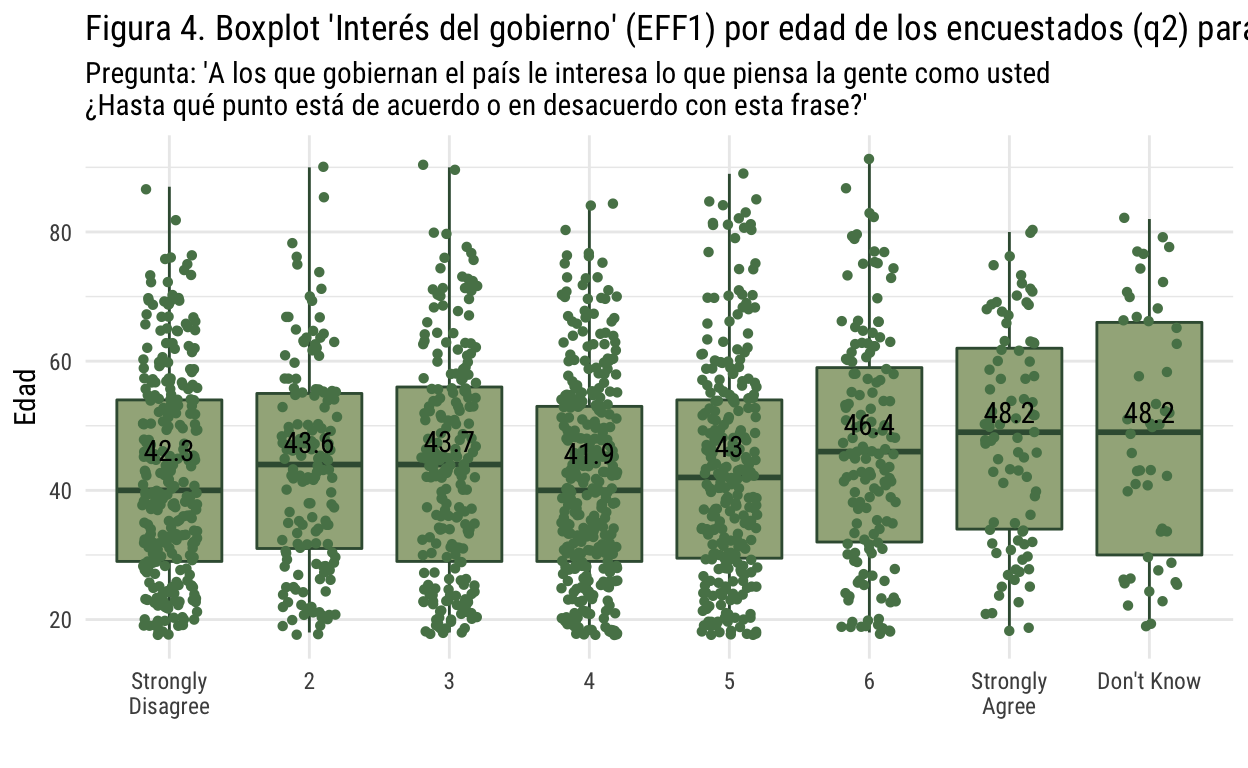
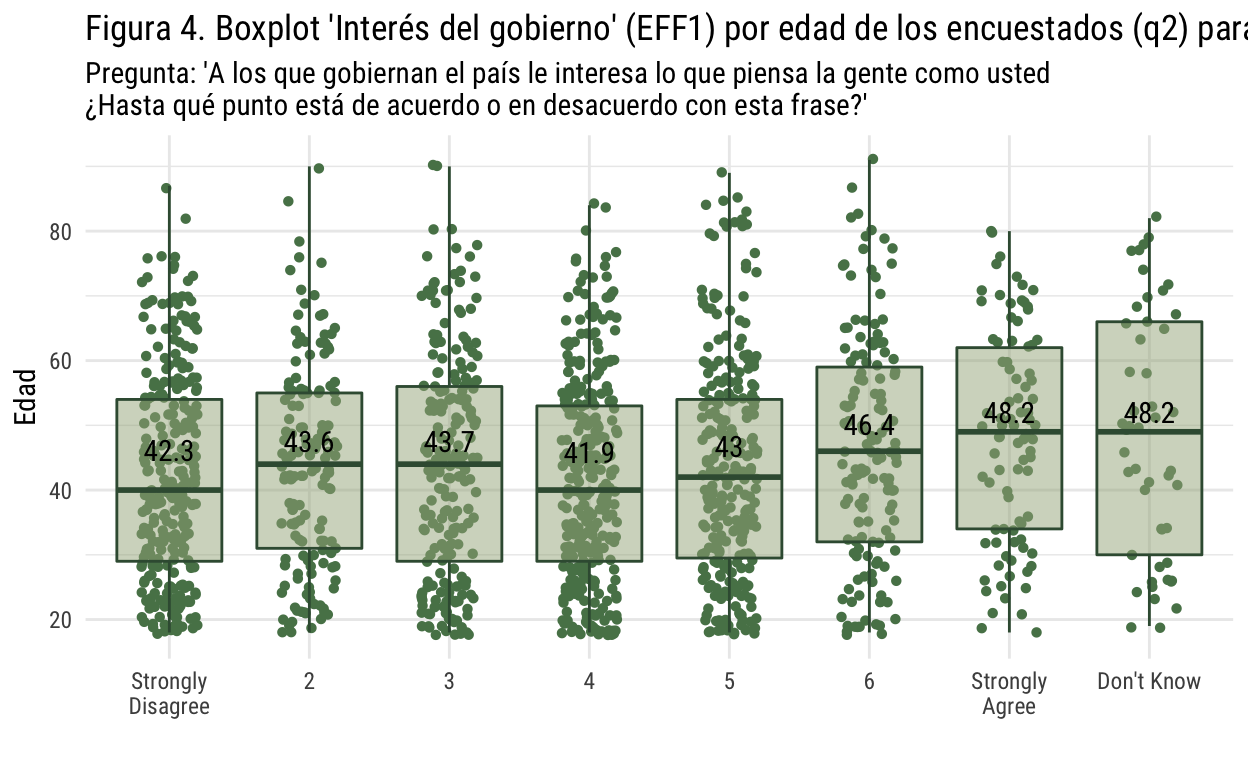
valor-p

diff --git a/_posts/2022-08-22-test-de-hiptesis/test-de-hiptesis.html b/_posts/2022-08-22-test-de-hiptesis/test-de-hiptesis.html
@@ -1547,7 +1547,8 @@ Considerando el tipo de variable que tenemos en nuestro análisis, es el tipo de
 <p>Y cargaremos la base de datos con variables ya seleccionadas:</p>
 <div class="layout-chunk" data-layout="l-body">
 <div class="sourceCode">
-<pre class="sourceCode r"><code class="sourceCode r"><span><span class='va'>df_lapop_chile</span> <span class='op'>&lt;-</span> <span class='fu'><a href='https://rdrr.io/r/base/readRDS.html'>readRDS</a></span><span class='op'>(</span><span class='st'>"output/lapop_chile_220824.rds"</span><span class='op'>)</span></span></code></pre>
+<pre class="sourceCode r"><code class="sourceCode r"><span><span class='va'>df_lapop_chile</span> <span class='op'>&lt;-</span> <span class='fu'><a href='https://rdrr.io/r/base/readRDS.html'>readRDS</a></span><span class='op'>(</span><span class='st'>"output/lapop_chile_220824.rds"</span><span class='op'>)</span></span>
+<span><span class='va'>df_lapop_chile</span> <span class='op'>&lt;-</span> <span class='fu'><a href='https://haven.tidyverse.org/reference/read_dta.html'>read_dta</a></span><span class='op'>(</span><span class='st'>"output/lapop_chile_220824.dta"</span><span class='op'>)</span></span></code></pre>
 </div>
 </div>
 <p>Entonces, nuestra base de datos contiene las siguientes variables:</p>
@@ -2438,9 +2439,11 @@ Q1
 <p>Los <em>histogramas</em> son los gráficos que se usan normalmente para graficar variables continuas porque muestran la distribución de los valores. Esto nos permite ver la distribución de las edades de las personas encuestadas en el Barómetro de las Américas desde el 2004 al 2008.</p>
 <div class="layout-chunk" data-layout="l-body">
 <div class="sourceCode">
-<pre class="sourceCode r"><code class="sourceCode r"><span><span class='va'>df_lapop_chile</span> <span class='op'><a href='https://magrittr.tidyverse.org/reference/pipe.html'>%&gt;%</a></span> </span>
+<pre class="sourceCode r"><code class="sourceCode r"><span><span class='va'>histograma</span> <span class='op'>&lt;-</span> <span class='va'>df_lapop_chile</span> <span class='op'><a href='https://magrittr.tidyverse.org/reference/pipe.html'>%&gt;%</a></span> </span>
 <span>  <span class='fu'><a href='https://ggplot2.tidyverse.org/reference/ggplot.html'>ggplot</a></span><span class='op'>(</span><span class='fu'><a href='https://ggplot2.tidyverse.org/reference/aes.html'>aes</a></span><span class='op'>(</span>x <span class='op'>=</span> <span class='va'>q2</span><span class='op'>)</span><span class='op'>)</span> <span class='op'>+</span></span>
-<span>  <span class='fu'><a href='https://ggplot2.tidyverse.org/reference/geom_histogram.html'>geom_histogram</a></span><span class='op'>(</span><span class='op'>)</span></span></code></pre>
+<span>  <span class='fu'><a href='https://ggplot2.tidyverse.org/reference/geom_histogram.html'>geom_histogram</a></span><span class='op'>(</span><span class='op'>)</span></span>
+<span></span>
+<span><span class='va'>histograma</span></span></code></pre>
 </div>
 <p><img src="test-de-hiptesis_files/figure-html5/unnamed-chunk-4-1.png" width="624" /></p>
 </div>
@@ -2476,7 +2479,7 @@ Q1
 <span>  <span class='fu'><a href='https://ggplot2.tidyverse.org/reference/geom_density.html'>geom_density</a></span><span class='op'>(</span><span class='fu'><a href='https://ggplot2.tidyverse.org/reference/aes.html'>aes</a></span><span class='op'>(</span>y <span class='op'>=</span> <span class='va'>..count..</span><span class='op'>)</span>, color <span class='op'>=</span> <span class='st'>"#ff006e"</span><span class='op'>)</span> <span class='op'>+</span> <span class='co'># Gráfico de densidad</span></span>
 <span>  <span class='fu'><a href='https://ggplot2.tidyverse.org/reference/scale_continuous.html'>scale_x_continuous</a></span><span class='op'>(</span>breaks <span class='op'>=</span> <span class='fu'><a href='https://rdrr.io/r/base/seq.html'>seq</a></span><span class='op'>(</span><span class='fl'>0</span>,<span class='fl'>100</span>, by <span class='op'>=</span> <span class='fl'>10</span><span class='op'>)</span><span class='op'>)</span> <span class='op'>+</span></span>
 <span>  <span class='fu'><a href='https://ggplot2.tidyverse.org/reference/labs.html'>labs</a></span><span class='op'>(</span>title <span class='op'>=</span> <span class='st'>"Figura 2. Histograma de las edades de los encuestados en el\nBarómetro de las Américas, ola 2006 y 2008."</span>, x <span class='op'>=</span> <span class='st'>"Edad"</span>, y <span class='op'>=</span> <span class='st'>"Frecuencia"</span><span class='op'>)</span> <span class='op'>+</span> <span class='co'># Títulos</span></span>
-<span>  <span class='fu'><a href='https://ggplot2.tidyverse.org/reference/facet_grid.html'>facet_grid</a></span><span class='op'>(</span>rows <span class='op'>=</span> <span class='fu'><a href='https://ggplot2.tidyverse.org/reference/vars.html'>vars</a></span><span class='op'>(</span><span class='va'>year</span><span class='op'>)</span><span class='op'>)</span> <span class='op'>+</span></span>
+<span>  <span class='fu'><a href='https://ggplot2.tidyverse.org/reference/facet_grid.html'>facet_grid</a></span><span class='op'>(</span>cols <span class='op'>=</span> <span class='fu'><a href='https://ggplot2.tidyverse.org/reference/vars.html'>vars</a></span><span class='op'>(</span><span class='va'>year</span><span class='op'>)</span><span class='op'>)</span> <span class='op'>+</span></span>
 <span>  <span class='fu'><a href='https://ggplot2.tidyverse.org/reference/ggtheme.html'>theme_minimal</a></span><span class='op'>(</span>base_family <span class='op'>=</span> <span class='st'>"Roboto Condensed"</span><span class='op'>)</span></span></code></pre>
 </div>
 <p><img src="test-de-hiptesis_files/figure-html5/unnamed-chunk-7-1.png" width="624" /></p>
@@ -2543,8 +2546,8 @@ Value |             Label |   N | Raw % | Valid % | Cum. %
 <pre class="sourceCode r"><code class="sourceCode r"><span><span class='va'>df_lapop_chile</span> <span class='op'><a href='https://magrittr.tidyverse.org/reference/pipe.html'>%&gt;%</a></span> </span>
 <span>  <span class='fu'><a href='https://dplyr.tidyverse.org/reference/filter.html'>filter</a></span><span class='op'>(</span><span class='va'>year</span> <span class='op'>==</span> <span class='fl'>2008</span><span class='op'>)</span> <span class='op'><a href='https://magrittr.tidyverse.org/reference/pipe.html'>%&gt;%</a></span> </span>
 <span>  <span class='fu'><a href='https://ggplot2.tidyverse.org/reference/ggplot.html'>ggplot</a></span><span class='op'>(</span><span class='fu'><a href='https://ggplot2.tidyverse.org/reference/aes.html'>aes</a></span><span class='op'>(</span>x <span class='op'>=</span> <span class='fu'><a href='https://forcats.tidyverse.org/reference/as_factor.html'>as_factor</a></span><span class='op'>(</span><span class='va'>eff1</span><span class='op'>)</span>, y <span class='op'>=</span> <span class='va'>q2</span><span class='op'>)</span><span class='op'>)</span> <span class='op'>+</span></span>
-<span>  <span class='fu'><a href='https://ggplot2.tidyverse.org/reference/geom_boxplot.html'>geom_boxplot</a></span><span class='op'>(</span>fill <span class='op'>=</span> <span class='st'>"#a3b18a"</span>, color <span class='op'>=</span> <span class='st'>"#3a5a40"</span><span class='op'>)</span> <span class='op'>+</span></span>
 <span>  <span class='fu'><a href='https://ggplot2.tidyverse.org/reference/geom_jitter.html'>geom_jitter</a></span><span class='op'>(</span>shape <span class='op'>=</span> <span class='fl'>16</span>, position <span class='op'>=</span> <span class='fu'><a href='https://ggplot2.tidyverse.org/reference/position_jitter.html'>position_jitter</a></span><span class='op'>(</span><span class='fl'>0.2</span><span class='op'>)</span>, color <span class='op'>=</span> <span class='st'>"#588157"</span><span class='op'>)</span> <span class='op'>+</span></span>
+<span>  <span class='fu'><a href='https://ggplot2.tidyverse.org/reference/geom_boxplot.html'>geom_boxplot</a></span><span class='op'>(</span>fill <span class='op'>=</span> <span class='st'>"#a3b18a"</span>, color <span class='op'>=</span> <span class='st'>"#3a5a40"</span>, alpha <span class='op'>=</span> <span class='fl'>0.5</span><span class='op'>)</span> <span class='op'>+</span></span>
 <span>  <span class='fu'><a href='https://ggplot2.tidyverse.org/reference/stat_summary.html'>stat_summary</a></span><span class='op'>(</span>fun <span class='op'>=</span> <span class='va'>mean</span>, colour<span class='op'>=</span><span class='st'>"black"</span>, geom<span class='op'>=</span><span class='st'>"text"</span>, show_guide <span class='op'>=</span> <span class='cn'>FALSE</span>,</span>
 <span>               vjust<span class='op'>=</span><span class='op'>-</span><span class='fl'>0.7</span>, family <span class='op'>=</span> <span class='st'>"Roboto Condensed"</span>,</span>
 <span>               <span class='fu'><a href='https://ggplot2.tidyverse.org/reference/aes.html'>aes</a></span><span class='op'>(</span>label <span class='op'>=</span> <span class='fu'><a href='https://rdrr.io/r/base/Round.html'>round</a></span><span class='op'>(</span><span class='va'>..y..</span>, digits <span class='op'>=</span> <span class='fl'>1</span><span class='op'>)</span><span class='op'>)</span><span class='op'>)</span> <span class='op'>+</span></span>
@@ -2554,7 +2557,24 @@ Value |             Label |   N | Raw % | Valid % | Cum. %
 <span>       x <span class='op'>=</span> <span class='st'>" "</span>, y <span class='op'>=</span> <span class='st'>"Edad"</span><span class='op'>)</span> <span class='op'>+</span></span>
 <span>  <span class='fu'><a href='https://ggplot2.tidyverse.org/reference/ggtheme.html'>theme_minimal</a></span><span class='op'>(</span>base_family <span class='op'>=</span> <span class='st'>"Roboto Condensed"</span><span class='op'>)</span></span></code></pre>
 </div>
-<p><img src="test-de-hiptesis_files/figure-html5/unnamed-chunk-11-1.png" width="624" /></p>
+<img src="test-de-hiptesis_files/figure-html5/unnamed-chunk-11-1.png" width="624" />
+<div class="sourceCode">
+<pre class="sourceCode r"><code class="sourceCode r"><span><span class='fu'><a href='https://strengejacke.github.io/sjmisc/reference/frq.html'>frq</a></span><span class='op'>(</span><span class='va'>df_lapop_chile</span>, <span class='va'>eff1</span><span class='op'>)</span></span></code></pre>
+</div>
+<pre><code>
+Leaders Are Interested in What People Think (eff1) &lt;numeric&gt;
+# total N=3044  valid N=1478  mean=3.62  sd=1.81
+
+Value |             Label |    N | Raw % | Valid % | Cum. %
+-----------------------------------------------------------
+    1 | Strongly Disagree |  285 |  9.36 |   19.28 |  19.28
+    2 |                 2 |  155 |  5.09 |   10.49 |  29.77
+    3 |                 3 |  219 |  7.19 |   14.82 |  44.59
+    4 |                 4 |  316 | 10.38 |   21.38 |  65.97
+    5 |                 5 |  271 |  8.90 |   18.34 |  84.30
+    6 |                 6 |  145 |  4.76 |    9.81 |  94.11
+    7 |    Strongly Agree |   87 |  2.86 |    5.89 | 100.00
+ &lt;NA&gt; |              &lt;NA&gt; | 1566 | 51.45 |    &lt;NA&gt; |   &lt;NA&gt;</code></pre>
 </div>
 <h2 id="hacer-tablas-en-r-markdown">Hacer tablas en R Markdown</h2>
 <p>Hay diferentes formas de hacerlo. Se pueden generar directamente desde la base de datos o con un archivo externo. Para hacer las tablas que ven en este documento, lo hice de manera externa porque ya tenía las hojas de cálculo pre-llenadas con la información.</p>
@@ -10638,8 +10658,7 @@ Very Dissatisfied
 <span><span class='st'>               muy insatisfecho con la forma en que la democracia funciona en [pais].'</span>,</span>
 <span>               align <span class='op'>=</span> <span class='st'>'llrr'</span><span class='op'>)</span> <span class='op'><a href='https://magrittr.tidyverse.org/reference/pipe.html'>%&gt;%</a></span> </span>
 <span>  <span class='fu'><a href='https://rdrr.io/pkg/kableExtra/man/kable_styling.html'>kable_styling</a></span><span class='op'>(</span>bootstrap_options <span class='op'>=</span> <span class='fu'><a href='https://rdrr.io/r/base/c.html'>c</a></span><span class='op'>(</span><span class='st'>"striped"</span><span class='op'>)</span>, html_font <span class='op'>=</span> <span class='st'>'Roboto Condensed'</span><span class='op'>)</span> <span class='op'><a href='https://magrittr.tidyverse.org/reference/pipe.html'>%&gt;%</a></span></span>
-<span>  <span class='fu'><a href='https://rdrr.io/pkg/kableExtra/man/column_spec.html'>column_spec</a></span><span class='op'>(</span><span class='fl'>1</span>, width_min <span class='op'>=</span> <span class='st'>"3cm"</span><span class='op'>)</span> <span class='op'><a href='https://magrittr.tidyverse.org/reference/pipe.html'>%&gt;%</a></span> </span>
-<span>  <span class='fu'><a href='https://rdrr.io/pkg/kableExtra/man/column_spec.html'>column_spec</a></span><span class='op'>(</span><span class='fl'>2</span>, width_min <span class='op'>=</span> <span class='st'>"3cm"</span><span class='op'>)</span> <span class='op'><a href='https://magrittr.tidyverse.org/reference/pipe.html'>%&gt;%</a></span> </span>
+<span>  <span class='fu'><a href='https://rdrr.io/pkg/kableExtra/man/column_spec.html'>column_spec</a></span><span class='op'>(</span><span class='fl'>1</span><span class='op'>:</span><span class='fl'>2</span>, width_min <span class='op'>=</span> <span class='st'>"3cm"</span><span class='op'>)</span> <span class='op'><a href='https://magrittr.tidyverse.org/reference/pipe.html'>%&gt;%</a></span> </span>
 <span>  <span class='fu'><a href='https://rdrr.io/pkg/kableExtra/man/column_spec.html'>column_spec</a></span><span class='op'>(</span><span class='fl'>3</span><span class='op'>:</span><span class='fl'>4</span>, width_min <span class='op'>=</span> <span class='st'>"2cm"</span><span class='op'>)</span> <span class='op'><a href='https://magrittr.tidyverse.org/reference/pipe.html'>%&gt;%</a></span> </span>
 <span>  <span class='fu'><a href='https://rdrr.io/pkg/kableExtra/man/row_spec.html'>row_spec</a></span><span class='op'>(</span><span class='fl'>0</span>, align <span class='op'>=</span> <span class='st'>'c'</span><span class='op'>)</span> <span class='op'><a href='https://magrittr.tidyverse.org/reference/pipe.html'>%&gt;%</a></span> </span>
 <span>  <span class='fu'><a href='https://rdrr.io/pkg/kableExtra/man/collapse_rows.html'>collapse_rows</a></span><span class='op'>(</span>columns <span class='op'>=</span> <span class='fl'>1</span>, valign <span class='op'>=</span> <span class='st'>"top"</span><span class='op'>)</span> <span class='op'><a href='https://magrittr.tidyverse.org/reference/pipe.html'>%&gt;%</a></span> </span>
@@ -14167,7 +14186,7 @@ Primer commit: modelos de regresión
 <span>  <span class='fu'><a href='https://readr.tidyverse.org/reference/read_rds.html'>write_rds</a></span><span class='op'>(</span><span class='va'>.</span>, <span class='st'>"output/lapop_int_220824.rds"</span><span class='op'>)</span></span></code></pre>
 </div>
 </div>
-<div class="sourceCode" id="cb4"><pre class="sourceCode r distill-force-highlighting-css"><code class="sourceCode r"></code></pre></div>
+<div class="sourceCode" id="cb5"><pre class="sourceCode r distill-force-highlighting-css"><code class="sourceCode r"></code></pre></div>
 <!--radix_placeholder_article_footer-->
 <!--/radix_placeholder_article_footer-->
 </div>

diff --git a/docs/posts/2022-08-22-test-de-hiptesis/index.html b/docs/posts/2022-08-22-test-de-hiptesis/index.html
@@ -2489,7 +2489,8 @@ Considerando el tipo de variable que tenemos en nuestro análisis, es el tipo de
 <p>Y cargaremos la base de datos con variables ya seleccionadas:</p>
 <div class="layout-chunk" data-layout="l-body">
 <div class="sourceCode">
-<pre class="sourceCode r"><code class="sourceCode r"><span><span class='va'>df_lapop_chile</span> <span class='op'>&lt;-</span> <span class='fu'><a href='https://rdrr.io/r/base/readRDS.html'>readRDS</a></span><span class='op'>(</span><span class='st'>"output/lapop_chile_220824.rds"</span><span class='op'>)</span></span></code></pre>
+<pre class="sourceCode r"><code class="sourceCode r"><span><span class='va'>df_lapop_chile</span> <span class='op'>&lt;-</span> <span class='fu'><a href='https://rdrr.io/r/base/readRDS.html'>readRDS</a></span><span class='op'>(</span><span class='st'>"output/lapop_chile_220824.rds"</span><span class='op'>)</span></span>
+<span><span class='va'>df_lapop_chile</span> <span class='op'>&lt;-</span> <span class='fu'><a href='https://haven.tidyverse.org/reference/read_dta.html'>read_dta</a></span><span class='op'>(</span><span class='st'>"output/lapop_chile_220824.dta"</span><span class='op'>)</span></span></code></pre>
 </div>
 </div>
 <p>Entonces, nuestra base de datos contiene las siguientes variables:</p>
@@ -3380,9 +3381,11 @@ Q1
 <p>Los <em>histogramas</em> son los gráficos que se usan normalmente para graficar variables continuas porque muestran la distribución de los valores. Esto nos permite ver la distribución de las edades de las personas encuestadas en el Barómetro de las Américas desde el 2004 al 2008.</p>
 <div class="layout-chunk" data-layout="l-body">
 <div class="sourceCode">
-<pre class="sourceCode r"><code class="sourceCode r"><span><span class='va'>df_lapop_chile</span> <span class='op'><a href='https://magrittr.tidyverse.org/reference/pipe.html'>%&gt;%</a></span> </span>
+<pre class="sourceCode r"><code class="sourceCode r"><span><span class='va'>histograma</span> <span class='op'>&lt;-</span> <span class='va'>df_lapop_chile</span> <span class='op'><a href='https://magrittr.tidyverse.org/reference/pipe.html'>%&gt;%</a></span> </span>
 <span>  <span class='fu'><a href='https://ggplot2.tidyverse.org/reference/ggplot.html'>ggplot</a></span><span class='op'>(</span><span class='fu'><a href='https://ggplot2.tidyverse.org/reference/aes.html'>aes</a></span><span class='op'>(</span>x <span class='op'>=</span> <span class='va'>q2</span><span class='op'>)</span><span class='op'>)</span> <span class='op'>+</span></span>
-<span>  <span class='fu'><a href='https://ggplot2.tidyverse.org/reference/geom_histogram.html'>geom_histogram</a></span><span class='op'>(</span><span class='op'>)</span></span></code></pre>
+<span>  <span class='fu'><a href='https://ggplot2.tidyverse.org/reference/geom_histogram.html'>geom_histogram</a></span><span class='op'>(</span><span class='op'>)</span></span>
+<span></span>
+<span><span class='va'>histograma</span></span></code></pre>
 </div>
 <p><img src="test-de-hiptesis_files/figure-html5/unnamed-chunk-4-1.png" width="624" /></p>
 </div>
@@ -3418,7 +3421,7 @@ Q1
 <span>  <span class='fu'><a href='https://ggplot2.tidyverse.org/reference/geom_density.html'>geom_density</a></span><span class='op'>(</span><span class='fu'><a href='https://ggplot2.tidyverse.org/reference/aes.html'>aes</a></span><span class='op'>(</span>y <span class='op'>=</span> <span class='va'>..count..</span><span class='op'>)</span>, color <span class='op'>=</span> <span class='st'>"#ff006e"</span><span class='op'>)</span> <span class='op'>+</span> <span class='co'># Gráfico de densidad</span></span>
 <span>  <span class='fu'><a href='https://ggplot2.tidyverse.org/reference/scale_continuous.html'>scale_x_continuous</a></span><span class='op'>(</span>breaks <span class='op'>=</span> <span class='fu'><a href='https://rdrr.io/r/base/seq.html'>seq</a></span><span class='op'>(</span><span class='fl'>0</span>,<span class='fl'>100</span>, by <span class='op'>=</span> <span class='fl'>10</span><span class='op'>)</span><span class='op'>)</span> <span class='op'>+</span></span>
 <span>  <span class='fu'><a href='https://ggplot2.tidyverse.org/reference/labs.html'>labs</a></span><span class='op'>(</span>title <span class='op'>=</span> <span class='st'>"Figura 2. Histograma de las edades de los encuestados en el\nBarómetro de las Américas, ola 2006 y 2008."</span>, x <span class='op'>=</span> <span class='st'>"Edad"</span>, y <span class='op'>=</span> <span class='st'>"Frecuencia"</span><span class='op'>)</span> <span class='op'>+</span> <span class='co'># Títulos</span></span>
-<span>  <span class='fu'><a href='https://ggplot2.tidyverse.org/reference/facet_grid.html'>facet_grid</a></span><span class='op'>(</span>rows <span class='op'>=</span> <span class='fu'><a href='https://ggplot2.tidyverse.org/reference/vars.html'>vars</a></span><span class='op'>(</span><span class='va'>year</span><span class='op'>)</span><span class='op'>)</span> <span class='op'>+</span></span>
+<span>  <span class='fu'><a href='https://ggplot2.tidyverse.org/reference/facet_grid.html'>facet_grid</a></span><span class='op'>(</span>cols <span class='op'>=</span> <span class='fu'><a href='https://ggplot2.tidyverse.org/reference/vars.html'>vars</a></span><span class='op'>(</span><span class='va'>year</span><span class='op'>)</span><span class='op'>)</span> <span class='op'>+</span></span>
 <span>  <span class='fu'><a href='https://ggplot2.tidyverse.org/reference/ggtheme.html'>theme_minimal</a></span><span class='op'>(</span>base_family <span class='op'>=</span> <span class='st'>"Roboto Condensed"</span><span class='op'>)</span></span></code></pre>
 </div>
 <p><img src="test-de-hiptesis_files/figure-html5/unnamed-chunk-7-1.png" width="624" /></p>
@@ -3485,8 +3488,8 @@ Value |             Label |   N | Raw % | Valid % | Cum. %
 <pre class="sourceCode r"><code class="sourceCode r"><span><span class='va'>df_lapop_chile</span> <span class='op'><a href='https://magrittr.tidyverse.org/reference/pipe.html'>%&gt;%</a></span> </span>
 <span>  <span class='fu'><a href='https://dplyr.tidyverse.org/reference/filter.html'>filter</a></span><span class='op'>(</span><span class='va'>year</span> <span class='op'>==</span> <span class='fl'>2008</span><span class='op'>)</span> <span class='op'><a href='https://magrittr.tidyverse.org/reference/pipe.html'>%&gt;%</a></span> </span>
 <span>  <span class='fu'><a href='https://ggplot2.tidyverse.org/reference/ggplot.html'>ggplot</a></span><span class='op'>(</span><span class='fu'><a href='https://ggplot2.tidyverse.org/reference/aes.html'>aes</a></span><span class='op'>(</span>x <span class='op'>=</span> <span class='fu'><a href='https://forcats.tidyverse.org/reference/as_factor.html'>as_factor</a></span><span class='op'>(</span><span class='va'>eff1</span><span class='op'>)</span>, y <span class='op'>=</span> <span class='va'>q2</span><span class='op'>)</span><span class='op'>)</span> <span class='op'>+</span></span>
-<span>  <span class='fu'><a href='https://ggplot2.tidyverse.org/reference/geom_boxplot.html'>geom_boxplot</a></span><span class='op'>(</span>fill <span class='op'>=</span> <span class='st'>"#a3b18a"</span>, color <span class='op'>=</span> <span class='st'>"#3a5a40"</span><span class='op'>)</span> <span class='op'>+</span></span>
 <span>  <span class='fu'><a href='https://ggplot2.tidyverse.org/reference/geom_jitter.html'>geom_jitter</a></span><span class='op'>(</span>shape <span class='op'>=</span> <span class='fl'>16</span>, position <span class='op'>=</span> <span class='fu'><a href='https://ggplot2.tidyverse.org/reference/position_jitter.html'>position_jitter</a></span><span class='op'>(</span><span class='fl'>0.2</span><span class='op'>)</span>, color <span class='op'>=</span> <span class='st'>"#588157"</span><span class='op'>)</span> <span class='op'>+</span></span>
+<span>  <span class='fu'><a href='https://ggplot2.tidyverse.org/reference/geom_boxplot.html'>geom_boxplot</a></span><span class='op'>(</span>fill <span class='op'>=</span> <span class='st'>"#a3b18a"</span>, color <span class='op'>=</span> <span class='st'>"#3a5a40"</span>, alpha <span class='op'>=</span> <span class='fl'>0.5</span><span class='op'>)</span> <span class='op'>+</span></span>
 <span>  <span class='fu'><a href='https://ggplot2.tidyverse.org/reference/stat_summary.html'>stat_summary</a></span><span class='op'>(</span>fun <span class='op'>=</span> <span class='va'>mean</span>, colour<span class='op'>=</span><span class='st'>"black"</span>, geom<span class='op'>=</span><span class='st'>"text"</span>, show_guide <span class='op'>=</span> <span class='cn'>FALSE</span>,</span>
 <span>               vjust<span class='op'>=</span><span class='op'>-</span><span class='fl'>0.7</span>, family <span class='op'>=</span> <span class='st'>"Roboto Condensed"</span>,</span>
 <span>               <span class='fu'><a href='https://ggplot2.tidyverse.org/reference/aes.html'>aes</a></span><span class='op'>(</span>label <span class='op'>=</span> <span class='fu'><a href='https://rdrr.io/r/base/Round.html'>round</a></span><span class='op'>(</span><span class='va'>..y..</span>, digits <span class='op'>=</span> <span class='fl'>1</span><span class='op'>)</span><span class='op'>)</span><span class='op'>)</span> <span class='op'>+</span></span>
@@ -3496,7 +3499,24 @@ Value |             Label |   N | Raw % | Valid % | Cum. %
 <span>       x <span class='op'>=</span> <span class='st'>" "</span>, y <span class='op'>=</span> <span class='st'>"Edad"</span><span class='op'>)</span> <span class='op'>+</span></span>
 <span>  <span class='fu'><a href='https://ggplot2.tidyverse.org/reference/ggtheme.html'>theme_minimal</a></span><span class='op'>(</span>base_family <span class='op'>=</span> <span class='st'>"Roboto Condensed"</span><span class='op'>)</span></span></code></pre>
 </div>
-<p><img src="test-de-hiptesis_files/figure-html5/unnamed-chunk-11-1.png" width="624" /></p>
+<img src="test-de-hiptesis_files/figure-html5/unnamed-chunk-11-1.png" width="624" />
+<div class="sourceCode">
+<pre class="sourceCode r"><code class="sourceCode r"><span><span class='fu'><a href='https://strengejacke.github.io/sjmisc/reference/frq.html'>frq</a></span><span class='op'>(</span><span class='va'>df_lapop_chile</span>, <span class='va'>eff1</span><span class='op'>)</span></span></code></pre>
+</div>
+<pre><code>
+Leaders Are Interested in What People Think (eff1) &lt;numeric&gt;
+# total N=3044  valid N=1478  mean=3.62  sd=1.81
+
+Value |             Label |    N | Raw % | Valid % | Cum. %
+-----------------------------------------------------------
+    1 | Strongly Disagree |  285 |  9.36 |   19.28 |  19.28
+    2 |                 2 |  155 |  5.09 |   10.49 |  29.77
+    3 |                 3 |  219 |  7.19 |   14.82 |  44.59
+    4 |                 4 |  316 | 10.38 |   21.38 |  65.97
+    5 |                 5 |  271 |  8.90 |   18.34 |  84.30
+    6 |                 6 |  145 |  4.76 |    9.81 |  94.11
+    7 |    Strongly Agree |   87 |  2.86 |    5.89 | 100.00
+ &lt;NA&gt; |              &lt;NA&gt; | 1566 | 51.45 |    &lt;NA&gt; |   &lt;NA&gt;</code></pre>
 </div>
 <h2 id="hacer-tablas-en-r-markdown">Hacer tablas en R Markdown</h2>
 <p>Hay diferentes formas de hacerlo. Se pueden generar directamente desde la base de datos o con un archivo externo. Para hacer las tablas que ven en este documento, lo hice de manera externa porque ya tenía las hojas de cálculo pre-llenadas con la información.</p>
@@ -11580,8 +11600,7 @@ Very Dissatisfied
 <span><span class='st'>               muy insatisfecho con la forma en que la democracia funciona en [pais].'</span>,</span>
 <span>               align <span class='op'>=</span> <span class='st'>'llrr'</span><span class='op'>)</span> <span class='op'><a href='https://magrittr.tidyverse.org/reference/pipe.html'>%&gt;%</a></span> </span>
 <span>  <span class='fu'><a href='https://rdrr.io/pkg/kableExtra/man/kable_styling.html'>kable_styling</a></span><span class='op'>(</span>bootstrap_options <span class='op'>=</span> <span class='fu'><a href='https://rdrr.io/r/base/c.html'>c</a></span><span class='op'>(</span><span class='st'>"striped"</span><span class='op'>)</span>, html_font <span class='op'>=</span> <span class='st'>'Roboto Condensed'</span><span class='op'>)</span> <span class='op'><a href='https://magrittr.tidyverse.org/reference/pipe.html'>%&gt;%</a></span></span>
-<span>  <span class='fu'><a href='https://rdrr.io/pkg/kableExtra/man/column_spec.html'>column_spec</a></span><span class='op'>(</span><span class='fl'>1</span>, width_min <span class='op'>=</span> <span class='st'>"3cm"</span><span class='op'>)</span> <span class='op'><a href='https://magrittr.tidyverse.org/reference/pipe.html'>%&gt;%</a></span> </span>
-<span>  <span class='fu'><a href='https://rdrr.io/pkg/kableExtra/man/column_spec.html'>column_spec</a></span><span class='op'>(</span><span class='fl'>2</span>, width_min <span class='op'>=</span> <span class='st'>"3cm"</span><span class='op'>)</span> <span class='op'><a href='https://magrittr.tidyverse.org/reference/pipe.html'>%&gt;%</a></span> </span>
+<span>  <span class='fu'><a href='https://rdrr.io/pkg/kableExtra/man/column_spec.html'>column_spec</a></span><span class='op'>(</span><span class='fl'>1</span><span class='op'>:</span><span class='fl'>2</span>, width_min <span class='op'>=</span> <span class='st'>"3cm"</span><span class='op'>)</span> <span class='op'><a href='https://magrittr.tidyverse.org/reference/pipe.html'>%&gt;%</a></span> </span>
 <span>  <span class='fu'><a href='https://rdrr.io/pkg/kableExtra/man/column_spec.html'>column_spec</a></span><span class='op'>(</span><span class='fl'>3</span><span class='op'>:</span><span class='fl'>4</span>, width_min <span class='op'>=</span> <span class='st'>"2cm"</span><span class='op'>)</span> <span class='op'><a href='https://magrittr.tidyverse.org/reference/pipe.html'>%&gt;%</a></span> </span>
 <span>  <span class='fu'><a href='https://rdrr.io/pkg/kableExtra/man/row_spec.html'>row_spec</a></span><span class='op'>(</span><span class='fl'>0</span>, align <span class='op'>=</span> <span class='st'>'c'</span><span class='op'>)</span> <span class='op'><a href='https://magrittr.tidyverse.org/reference/pipe.html'>%&gt;%</a></span> </span>
 <span>  <span class='fu'><a href='https://rdrr.io/pkg/kableExtra/man/collapse_rows.html'>collapse_rows</a></span><span class='op'>(</span>columns <span class='op'>=</span> <span class='fl'>1</span>, valign <span class='op'>=</span> <span class='st'>"top"</span><span class='op'>)</span> <span class='op'><a href='https://magrittr.tidyverse.org/reference/pipe.html'>%&gt;%</a></span> </span>
@@ -15109,7 +15128,7 @@ Primer commit: modelos de regresión
 <span>  <span class='fu'><a href='https://readr.tidyverse.org/reference/read_rds.html'>write_rds</a></span><span class='op'>(</span><span class='va'>.</span>, <span class='st'>"output/lapop_int_220824.rds"</span><span class='op'>)</span></span></code></pre>
 </div>
 </div>
-<div class="sourceCode" id="cb4"><pre class="sourceCode r distill-force-highlighting-css"><code class="sourceCode r"></code></pre></div>
+<div class="sourceCode" id="cb5"><pre class="sourceCode r distill-force-highlighting-css"><code class="sourceCode r"></code></pre></div>
 <!--radix_placeholder_article_footer-->
 <!--/radix_placeholder_article_footer-->
 </div>
